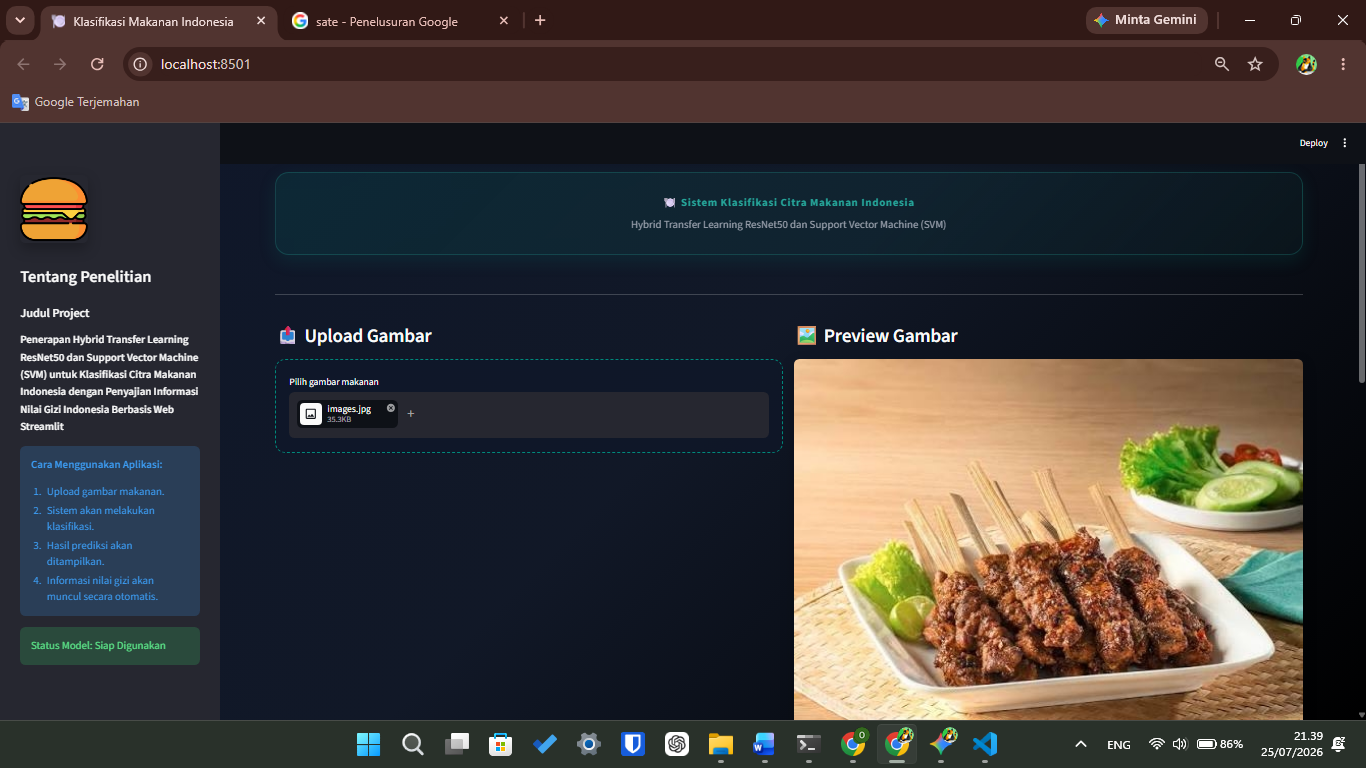
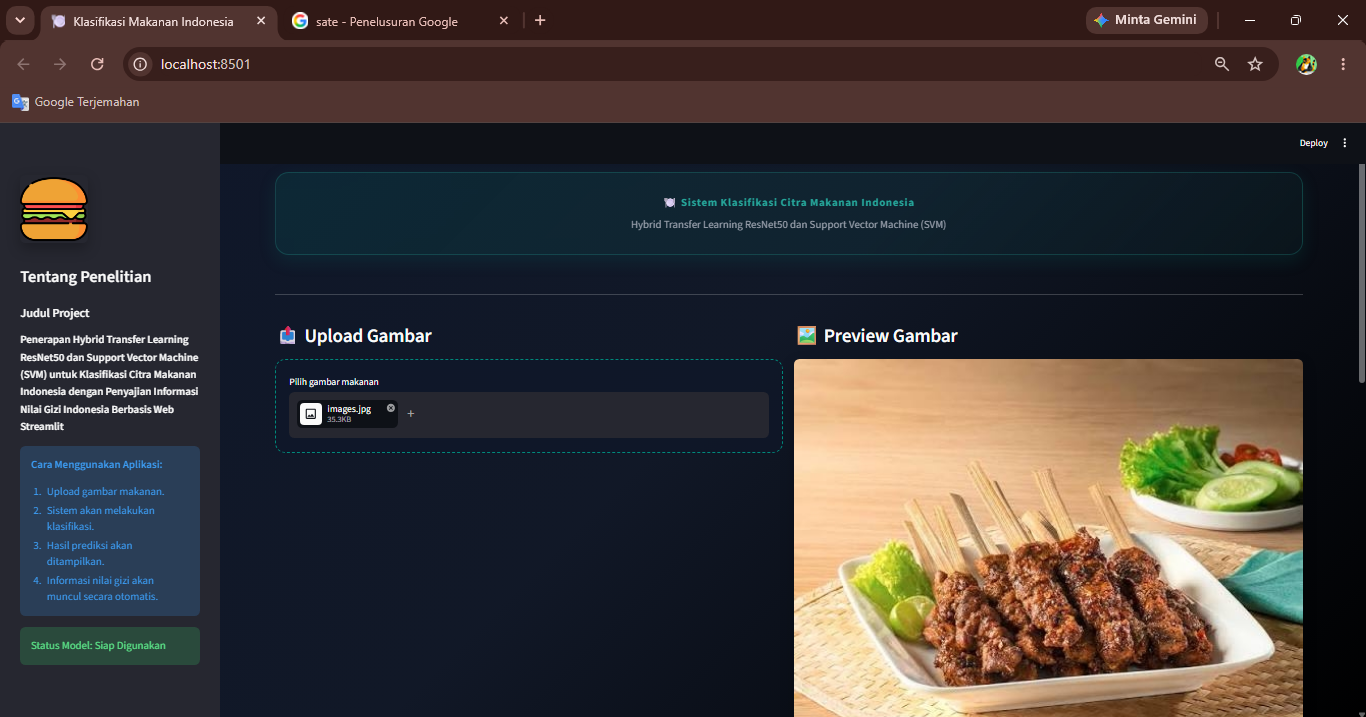
update

diff --git a/README.id.md b/README.id.md
@@ -113,7 +113,21 @@ Aplikasi Web Streamlit
 
 ## 🖼 Diagram Alur Sistem
 
-![Pipeline](images/pipeline.png)
+## 🖼 Diagram Alur Sistem
+
+```mermaid
+graph TD
+    A[Dataset] --> B[Prapemrosesan Citra]
+    B --> C[Transfer Learning ResNet50]
+    C --> D[Ekstraksi Fitur]
+    D --> E[Vektor Fitur]
+    E --> F[StandardScaler]
+    F --> G[Support Vector Machine]
+    G --> H[Klasifikasi Makanan]
+    H --> I[Pencarian Database Gizi]
+    I --> J[Informasi Nilai Gizi]
+    J --> K[Aplikasi Web Streamlit]
+```
 
 ---
 
